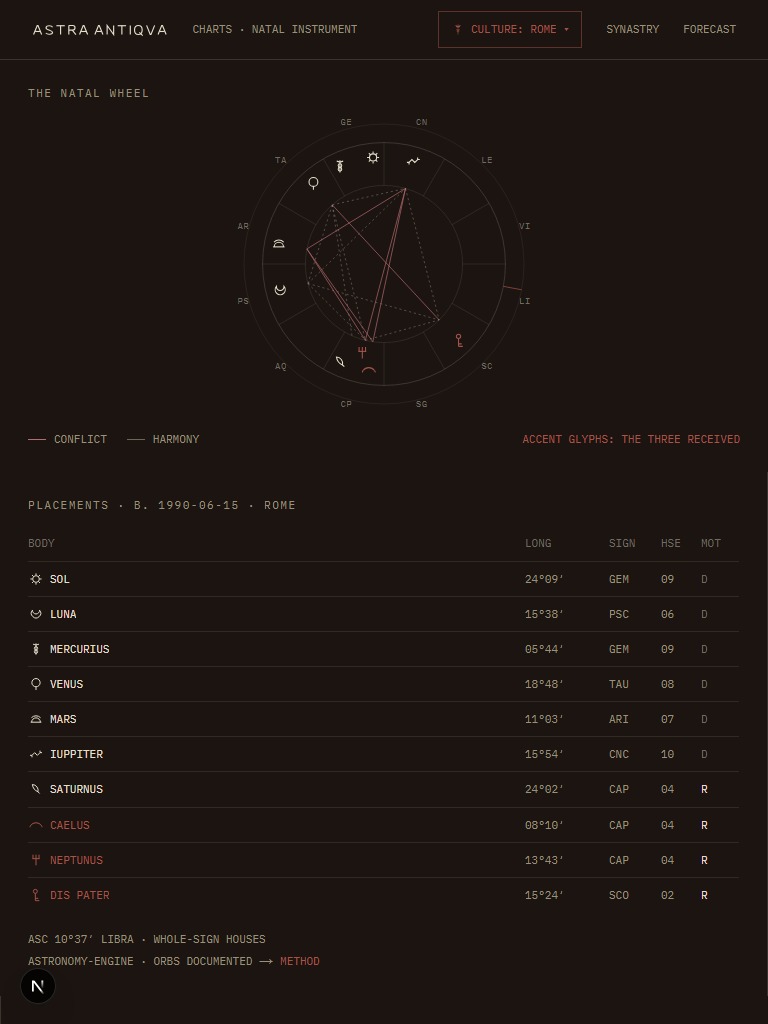
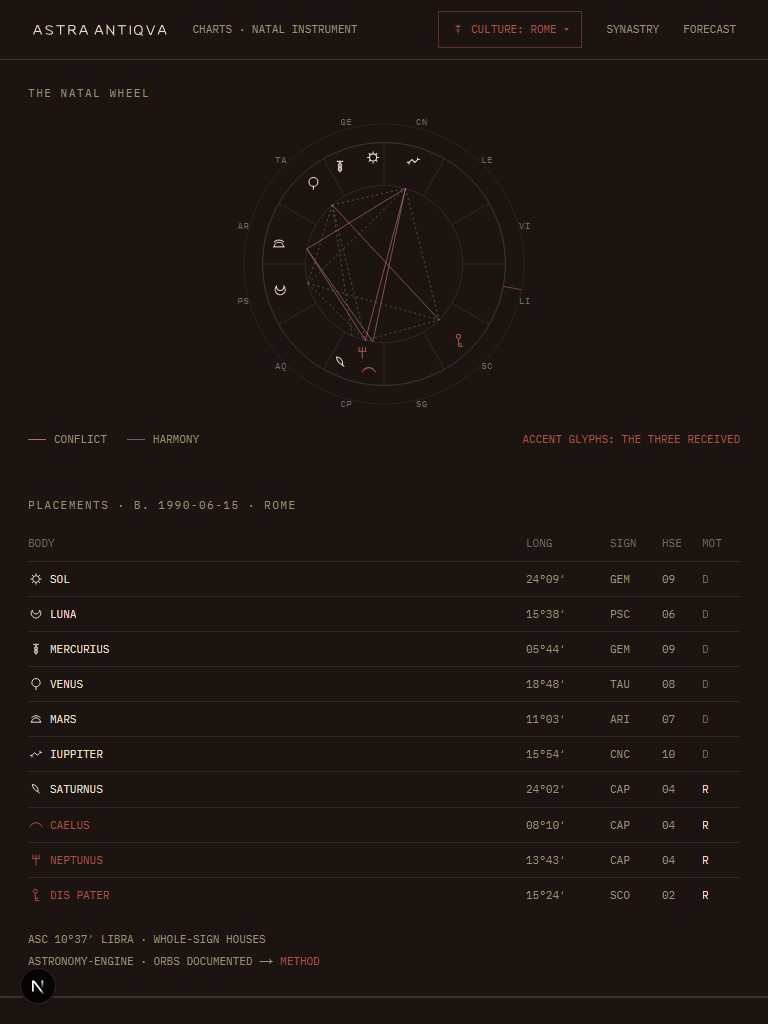
fix(web): one instrument breakpoint, wide enough for the placements
The first fix moved the three-column switch to 1024px, where the
placements table shows one letter per body. Captures at 1100 and 1152
still clip the names; 1200 shows them whole. The width now lives in one
token, --breakpoint-instrument, and InstrumentShell and ChartsInstrument
both use the instrument: variant, so the asides' separators and the
full-width empty states change at the same width as the grid.

diff --git a/web/src/components/charts/ChartsInstrument.tsx b/web/src/components/charts/ChartsInstrument.tsx
@@ -68,7 +68,7 @@ function ChartsInstrumentInner() {
   if (!hydrated) {
     return (
       <InstrumentShell context="CHARTS · NATAL INSTRUMENT" siblings={SIBLINGS}>
-        <div className="flex items-center justify-center px-7 py-24 min-[720px]:col-span-3">
+        <div className="flex items-center justify-center px-7 py-24 instrument:col-span-3">
           <Skeleton />
         </div>
       </InstrumentShell>
@@ -78,7 +78,7 @@ function ChartsInstrumentInner() {
   if (chart === null) {
     return (
       <InstrumentShell context="CHARTS · NATAL INSTRUMENT" siblings={SIBLINGS}>
-        <div className="mx-auto flex max-w-[560px] flex-col items-center px-5 py-16 text-center min-[720px]:col-span-3">
+        <div className="mx-auto flex max-w-[560px] flex-col items-center px-5 py-16 text-center instrument:col-span-3">
           <div className="font-mono text-data-xs tracking-microcopy text-dim">SAVED CHARTS</div>
           <div className="mx-auto my-5 h-px w-11 bg-accent" />
           <h1 className="font-display text-display-s leading-display tracking-display text-bone">
@@ -106,7 +106,7 @@ function ChartsInstrumentInner() {
   if (!natal) {
     return (
       <InstrumentShell context="CHARTS · NATAL INSTRUMENT" siblings={SIBLINGS}>
-        <div className="mx-auto flex max-w-[480px] flex-col items-center px-5 py-16 text-center min-[720px]:col-span-3">
+        <div className="mx-auto flex max-w-[480px] flex-col items-center px-5 py-16 text-center instrument:col-span-3">
           <p className="font-mono text-data-xs uppercase tracking-label text-dim">
             THIS CHART COULD NOT BE COMPUTED
           </p>
@@ -125,7 +125,7 @@ function ChartsInstrumentInner() {
 
   return (
     <InstrumentShell context="CHARTS · NATAL INSTRUMENT" siblings={SIBLINGS}>
-      <aside className="border-rule border-b px-7 py-6 min-[720px]:border-b-0 min-[720px]:border-r">
+      <aside className="border-rule border-b px-7 py-6 instrument:border-b-0 instrument:border-r">
         <div className="font-mono text-data-xs tracking-label text-dim">
           PLACEMENTS · B. {chart.date} · {cityShort(chart.cityLabel)}
         </div>
@@ -183,7 +183,7 @@ function ChartsInstrumentInner() {
         </div>
       </div>
 
-      <aside className="border-rule flex flex-col border-t px-7 py-6 min-[720px]:border-t-0 min-[720px]:border-l">
+      <aside className="border-rule flex flex-col border-t px-7 py-6 instrument:border-t-0 instrument:border-l">
         <div className="font-mono text-data-xs tracking-label text-dim">
           YOUR CHART · ON THIS DEVICE
         </div>

diff --git a/web/src/components/chrome/InstrumentShell.tsx b/web/src/components/chrome/InstrumentShell.tsx
@@ -18,10 +18,13 @@ export interface InstrumentShellProps {
  * The instrument chassis: one 60px bar (wordmark, context, culture chip,
  * sibling-tool links) over a 3-column grid. Children are expected to be the
  * three column elements in DOM order (data rail, visualization, reading
- * rail). Below 1024px the grid stacks to one column and re-orders the
+ * rail). Below the `instrument` breakpoint (--breakpoint-instrument in
+ * globals.css, 1200px) the grid stacks to one column and re-orders the
  * children center-first, so the reading never sits under two rails' worth of
- * scroll. The breakpoint is 1024px because the two rails' minimum widths sum
- * to 720px before gaps, which leaves the center no room at tablet widths.
+ * scroll. The rails' minimum widths sum to 720px, and the placements table
+ * needs the center column wider than that leaves, so the three columns wait
+ * for 1200px, the smallest width measured that shows every body name whole.
+ * ChartsInstrument keys off the same token.
  */
 export function InstrumentShell({ children, context, siblings }: InstrumentShellProps) {
   return (
@@ -47,9 +50,9 @@ export function InstrumentShell({ children, context, siblings }: InstrumentShell
       <div
         className={[
           "grid grid-cols-1",
-          "min-[1024px]:grid-cols-[minmax(340px,360px)_1fr_minmax(380px,470px)]",
+          "instrument:grid-cols-[minmax(340px,360px)_1fr_minmax(380px,470px)]",
           "[&>*:nth-child(1)]:order-2 [&>*:nth-child(2)]:order-1 [&>*:nth-child(3)]:order-3",
-          "min-[1024px]:[&>*]:order-none",
+          "instrument:[&>*]:order-none",
         ].join(" ")}
       >
         {children}

diff --git a/web/src/app/globals.css b/web/src/app/globals.css
@@ -1,6 +1,9 @@
 @import "tailwindcss";
 
 @theme {
+  /* The instrument's one breakpoint (instrument: variant); see InstrumentShell. */
+  --breakpoint-instrument: 1200px;
+
   /* "The Instrument in the Temple" tokens (docs/design/handoff/tokens.css). */
 
   /* grounds (page background per culture; neutral where no culture is presumed) */

diff --git a/docs/web-rebrand-report.md b/docs/web-rebrand-report.md
@@ -117,8 +117,9 @@ unless the name says otherwise. "Seeded" means a reader with the Rome 1990-06-15
 | Not found | `not-found-rome-1280.png` | `/this-route-does-not-exist` |
 | Five voices | `voices-home-{egypt,greece,canaan,carthage,rome}-1280.png` | seeded, same day |
 | Responsive | `{home,week,charts-seeded,transits-saturn-opposition-asc}-rome-{375,768}.png` | seeded |
-| Instrument, tablet | `{synastry,forecast}-seeded-rome-768.png`, `charts-seeded-rome-768.png` (re-captured) | seeded, stacked to one column |
-| Instrument, 1024 | `{charts,synastry,forecast}-seeded-rome-1024.png` | seeded, three columns resume |
+| Instrument, tablet | `{charts,synastry,forecast}-seeded-rome-768.png` | seeded, stacked to one column |
+| Instrument, breakpoint | `{charts,synastry,forecast}-seeded-rome-1200.png` | seeded, three columns, names whole |
+| Charts, empty, responsive | `charts-empty-rome-{768,1200}.png` | onboarded, no chart |
 
 The Next dev indicator (the "N" badge, bottom left) appears in every capture. It is a dev-server
 overlay and does not ship.
@@ -157,31 +158,33 @@ documents it.
 `web/scripts/screenshot.mjs --report-scroll` compares `document.documentElement.scrollWidth`
 with the viewport width after load.
 
-| Page (seeded) | 375 | 768 | 1024 | 1280 |
+| Page (seeded) | 375 | 768 | 1200 | 1280 |
 |---------------|-----|-----|------|------|
 | `/` | 375 / 375, pass | 768 / 768, pass | n/a | pass |
 | `/week` | 375 / 375, pass | 768 / 768, pass | n/a | pass |
-| `/charts` | 375 / 375, pass | 768 / 768, pass | 1024 / 1024, pass | 1280 / 1280, pass |
-| `/synastry` | n/a | 768 / 768, pass | 1024 / 1024, pass | 1280 / 1280, pass |
-| `/forecast` | n/a | 768 / 768, pass | 1024 / 1024, pass | 1280 / 1280, pass |
+| `/charts` | 375 / 375, pass | 768 / 768, pass | 1200 / 1200, pass | 1280 / 1280, pass |
+| `/synastry` | n/a | 768 / 768, pass | 1200 / 1200, pass | 1280 / 1280, pass |
+| `/forecast` | n/a | 768 / 768, pass | 1200 / 1200, pass | 1280 / 1280, pass |
+| `/charts`, empty (onboarded, no chart) | n/a | 768 / 768, pass | 1200 / 1200, pass | n/a |
 | `/transits/saturn-opposition-asc` | 375 / 375, pass | 768 / 768, pass | n/a | pass |
 
-No page scrolls sideways at 375, which is the bar the plan set. The three instrument rows were
-measured with `?culture=rome` at 768x1024 and 1024x800, scale 1, and `--report-scroll` printed
-"no horizontal scroll" for all six. A 1280x800 run of each printed the same, and the layout at
-1280 is unchanged: the breakpoint sits below 1280, so the three columns already applied there.
+No page scrolls sideways at 375, which is the bar the plan set. The instrument rows were
+measured with `?culture=rome` at 768x1024 and 1200x800, scale 1, and `--report-scroll` printed
+"no horizontal scroll" for every run. The 1280 layout is unchanged, since 1280 is above the
+breakpoint. The empty `/charts` state renders its message centred at full width at 768 and at
+1200, so the `col-span-3` states span the whole grid when three columns are active.
 
-**Found and fixed: the instrument overflowed between 720 and about 1024.** These captures
-found it. `InstrumentShell` switched to three columns at 720px with
-`min-[720px]:grid-cols-[minmax(340px,360px)_1fr_minmax(380px,470px)]`. The two side columns
-alone need 720px, so the centre column had no room. At 768 `/charts` measured 1023 wide,
-`/synastry` 904 and `/forecast` 881, and `charts-seeded-rome-768.png` showed the right rail
-cut off and the placement names clipped. The commit `fix(web): the instrument stacks until its
-three columns fit` moves the three `min-[720px]:` utilities to `min-[1024px]:`. Below 1024 the
-instrument is one column, centre first, and at 768 all three pages measure 768. The 1024
-captures show the three columns resume there. At exactly 1024 the centre column is narrow and
-the placement table clips its body names, so a later pass could raise the breakpoint or narrow
-the rails; the page does not scroll sideways.
+**Found and fixed: the instrument overflowed between 720 and about 1200.** These captures
+found it in two steps. `InstrumentShell` switched to three columns at 720px, but the two side
+columns alone need 720px, so at 768 `/charts` measured 1023 wide, `/synastry` 904 and
+`/forecast` 881. A first fix moved the switch to 1024px, which stopped the scroll but left the
+placements table with one letter per body name and a clipped "BODY" header. Trial captures at
+1100 and 1152 still clipped the names ("SOL", "LU...", "ME..."); 1200 shows every name whole.
+The commit `fix(web): one instrument breakpoint, wide enough for the placements` defines the
+width once as `--breakpoint-instrument: 1200px` in `globals.css`, and `InstrumentShell` and
+`ChartsInstrument` both use the `instrument:` variant, so the asides' stacked separators and
+the full-width empty states follow the same width as the grid. Below 1200 the instrument is one
+column, centre first; at 768 all three pages measure 768.
 
 ## Redirects
 
@@ -202,6 +205,5 @@ when no session exists.
 
 ## Remaining work
 
-- Fix the 720 to 1024 overflow in `InstrumentShell`.
 - The future-work rows in `docs/web-ios-android-plan.md` still stand: social features, push
   delivery for the daily line, and OS widgets.
